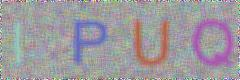
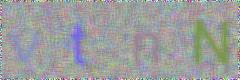
四位数验证码,包括:大小字母和数字

diff --git a/PILExercise/PILDemo03.py b/PILExercise/PILDemo03.py
@@ -13,9 +13,9 @@ resultChar = ""
 def randomChar():
     while (True):
         num = random.randint(48, 122)
-        if (((57 < num < 65) or (90 < num < 97))):
-            continue;
-    return chr(random.randint(65, 90))  # 数字:48-57; 大写字母:65-90; 小写字母:97-122
+        if (not ((57 < num < 65) or (90 < num < 97))):  # 排除不合法数据
+            break;
+    return chr(num)  # 数字:48-57; 大写字母:65-90; 小写字母:97-122
 
 
 # 随机颜色1
